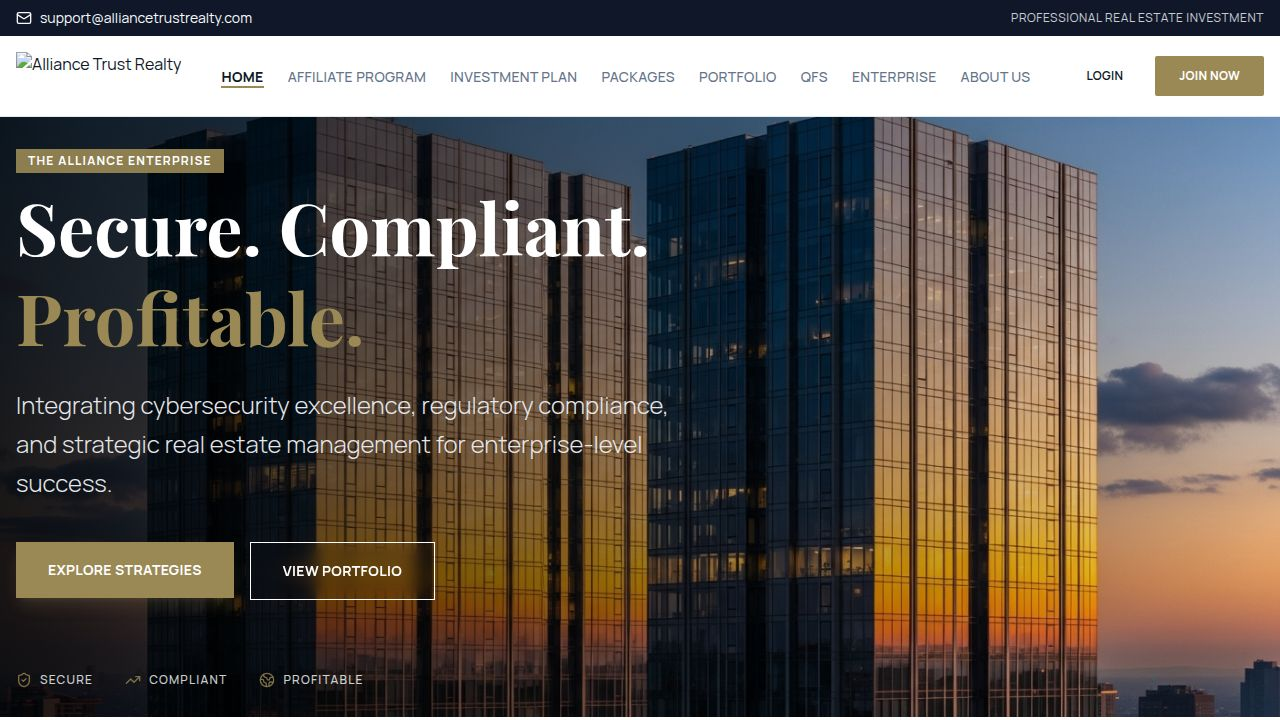
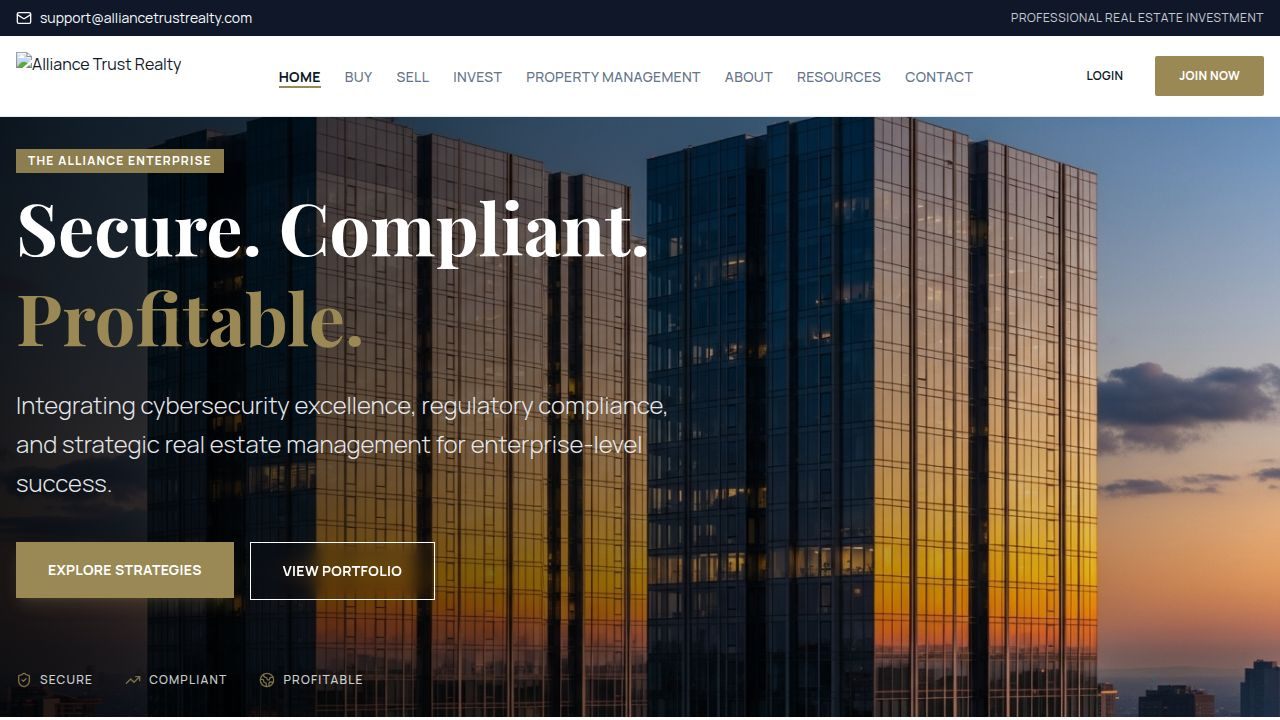
Add new sections for buying, selling, investing, and property management
Introduce new top-level routes and navigation items for Buy, Sell, Invest, and Property Management pages. Update Home page hero section.

Replit-Commit-Author: Agent
Replit-Commit-Session-Id: c5aa6118-9c6c-4483-9ddc-28a8247e483a
Replit-Commit-Checkpoint-Type: full_checkpoint
Replit-Commit-Event-Id: cbcf0f6b-43c0-4c21-aee7-9fab9d0a29b2
Replit-Commit-Screenshot-Url: https://storage.googleapis.com/screenshot-production-us-central1/432b56a7-6989-4eaa-8228-4d81d64ffe64/c5aa6118-9c6c-4483-9ddc-28a8247e483a/ANFQ0Y8
Replit-Helium-Checkpoint-Created: true

Changed region(s): [[0.1562, 0.0917, 0.8125, 0.1222]]

diff --git a/client/src/pages/Home.tsx b/client/src/pages/Home.tsx
@@ -3,7 +3,7 @@ import { Layout } from "@/components/layout/Layout";
 import { Button } from "@/components/ui/button";
 import { TradingViewCalendar } from "@/components/widgets/TradingViewCalendar";
 import { CryptoMarketTable } from "@/components/widgets/CryptoMarketTable";
-import { ArrowRight, BarChart3, ShieldCheck, TrendingUp, Users, Building2, Globe2, Play } from "lucide-react";
+import { Search, Home as HomeIcon, DollarSign, TrendingUp, Building2, ShieldCheck, Globe2, Play, ArrowRight, BarChart3 } from "lucide-react";
 import heroImage from "@assets/generated_images/modern_luxury_high-rise_building_at_dusk.png";
 import residentialImage from "@assets/generated_images/modern_luxury_apartment_complex.png";
 import commercialImage from "@assets/generated_images/modern_glass_office_building.png";
@@ -16,48 +16,86 @@ export default function Home() {
 
   return (
     <Layout>
-      {/* Hero Section - Enhanced with GemAlliance styling */}
-      <section className="relative h-[80vh] min-h-[600px] w-full overflow-hidden flex items-center">
-        <div 
-          className="absolute inset-0 bg-cover bg-center transition-transform duration-10000 hover:scale-105"
-          style={{ backgroundImage: `url(${heroImage})` }}
-        >
-          <div className="absolute inset-0 bg-gradient-to-r from-black/80 via-black/40 to-transparent" />
-        </div>
+        {/* Hero Section */}
+        <section className="relative h-[80vh] min-h-[600px] w-full overflow-hidden flex items-center">
+          <div 
+            className="absolute inset-0 bg-cover bg-center transition-transform duration-10000 hover:scale-105"
+            style={{ backgroundImage: `url(${heroImage})` }}
+          >
+            <div className="absolute inset-0 bg-gradient-to-r from-blue-900/60 to-slate-950/80 z-10" />
+          </div>
 
-        <div className="relative container mx-auto px-4 text-white z-10">
-          <div className="max-w-3xl space-y-6 animate-in slide-in-from-bottom-10 fade-in duration-1000">
-            <div className="inline-block px-3 py-1 bg-secondary/90 text-white text-xs font-bold uppercase tracking-widest rounded-sm mb-2">
-              The Alliance Enterprise
-            </div>
-            <h1 className="text-5xl md:text-7xl font-serif font-bold leading-tight">
-              Secure. Compliant. <br/>
-              <span className="text-secondary">Profitable.</span>
-            </h1>
-            <p className="text-xl md:text-2xl text-gray-200 font-light max-w-2xl leading-relaxed">
-              Integrating cybersecurity excellence, regulatory compliance, and strategic real estate management for enterprise-level success.
-            </p>
-            <div className="flex flex-col sm:flex-row gap-4 pt-4">
-              <Link href="/investment-plan">
-                <Button size="lg" className="bg-secondary hover:bg-secondary/90 text-white font-bold px-8 py-7 uppercase tracking-wide text-sm rounded-sm shadow-lg shadow-secondary/20">
-                  Explore Strategies
-                </Button>
-              </Link>
-              <Link href="/portfolio">
-                <Button size="lg" variant="outline" className="text-white border-white bg-transparent hover:bg-white hover:text-primary font-bold px-8 py-7 uppercase tracking-wide text-sm rounded-sm backdrop-blur-sm">
-                  View Portfolio
-                </Button>
-              </Link>
-            </div>
+          <div className="relative container mx-auto px-4 text-white z-20">
+            <div className="max-w-3xl space-y-8 animate-in slide-in-from-bottom-10 fade-in duration-1000">
+              <div className="inline-block px-4 py-1.5 bg-blue-600/20 border border-blue-500/30 text-blue-400 text-xs font-black uppercase tracking-[0.2em] rounded-full mb-4">
+                Full-Service Real Estate & Investment
+              </div>
+              <h1 className="text-5xl md:text-8xl font-black leading-tight tracking-tighter">
+                Trust. Scale. <br/>
+                <span className="text-blue-500 italic">Value.</span>
+              </h1>
+              <p className="text-xl md:text-2xl text-slate-300 font-light max-w-2xl leading-relaxed">
+                Whether you're buying your dream home or building a real estate portfolio, we provide data-driven guidance and end-to-end service.
+              </p>
+              
+              <div className="flex flex-col sm:flex-row gap-6 pt-6">
+                <Link href="/buy">
+                  <Button size="lg" className="bg-blue-600 hover:bg-blue-700 text-white font-black px-12 py-8 text-lg rounded-xl shadow-2xl shadow-blue-600/20 group">
+                    Find Your Home <ArrowRight className="ml-2 h-5 w-5 group-hover:translate-x-1 transition-transform" />
+                  </Button>
+                </Link>
+                <Link href="/invest">
+                  <Button size="lg" variant="outline" className="text-white border-white/20 hover:bg-white/10 font-black px-12 py-8 text-lg rounded-xl backdrop-blur-md">
+                    Explore Investments
+                  </Button>
+                </Link>
+              </div>
 
-            <div className="flex gap-8 pt-12 text-xs uppercase tracking-widest opacity-80 font-medium">
-              <span className="flex items-center gap-2"><ShieldCheck className="h-4 w-4 text-secondary" /> Secure</span>
-              <span className="flex items-center gap-2"><TrendingUp className="h-4 w-4 text-secondary" /> Compliant</span>
-              <span className="flex items-center gap-2"><Globe2 className="h-4 w-4 text-secondary" /> Profitable</span>
+              {/* Quick Search */}
+              <div className="max-w-xl mt-12 bg-white/5 backdrop-blur-xl border border-white/10 p-2 rounded-2xl flex items-center gap-2 shadow-2xl">
+                <div className="flex-1 flex items-center px-4 gap-3">
+                  <Search className="h-5 w-5 text-slate-400" />
+                  <input placeholder="Search city, neighborhood, or zip..." className="bg-transparent border-none text-white placeholder:text-slate-500 focus:outline-none w-full py-3" />
+                </div>
+                <Button className="bg-blue-600 hover:bg-blue-700 text-white font-bold h-12 px-6 rounded-xl">Search</Button>
+              </div>
             </div>
           </div>
-        </div>
-      </section>
+        </section>
+
+        {/* Services Grid Section */}
+        <section className="py-32 bg-slate-950 border-y border-white/5 relative overflow-hidden">
+          <div className="absolute top-0 left-1/2 -translate-x-1/2 w-full h-full bg-[radial-gradient(circle_at_center,rgba(59,130,246,0.05)_0%,transparent_70%)] pointer-events-none" />
+          <div className="container mx-auto px-4 relative z-10">
+            <div className="text-center mb-20 max-w-3xl mx-auto">
+              <span className="text-blue-500 font-bold tracking-widest uppercase text-sm mb-4 block">Our Expertise</span>
+              <h2 className="text-4xl md:text-6xl font-black text-white mb-6 tracking-tight">Full-Service Solutions</h2>
+              <p className="text-slate-400 text-lg font-light leading-relaxed">Data-driven approaches for every real estate objective, from individual home ownership to institutional portfolio scaling.</p>
+            </div>
+            
+            <div className="grid md:grid-cols-4 gap-8">
+              {[
+                { icon: HomeIcon, title: "Buy a Home", desc: "Find your perfect property with expert guidance", link: "/buy", color: "text-blue-500", bg: "bg-blue-500/10" },
+                { icon: DollarSign, title: "Sell Your Property", desc: "Maximize your return with our proven process", link: "/sell", color: "text-emerald-500", bg: "bg-emerald-500/10" },
+                { icon: TrendingUp, title: "Real Estate Investing", desc: "Build wealth through strategic property investments", link: "/invest", color: "text-amber-500", bg: "bg-amber-500/10" },
+                { icon: Building2, title: "Property Management", desc: "Hassle-free management for your rental properties", link: "/property-management", color: "text-purple-500", bg: "bg-purple-500/10" }
+              ].map((service, i) => (
+                <Link key={i} href={service.link}>
+                  <div className="p-10 rounded-3xl bg-slate-900/40 border border-white/5 hover:border-blue-500/30 hover:bg-slate-800/60 transition-all duration-500 group cursor-pointer h-full flex flex-col shadow-xl">
+                    <div className={`w-16 h-16 ${service.bg} ${service.color} rounded-2xl flex items-center justify-center mb-8 group-hover:scale-110 transition-transform duration-500`}>
+                      <service.icon size={32} />
+                    </div>
+                    <h3 className="text-2xl font-black text-white mb-4 tracking-tight">{service.title}</h3>
+                    <p className="text-slate-400 font-light leading-relaxed mb-8 flex-grow">{service.desc}</p>
+                    <span className={`text-sm font-bold uppercase tracking-widest ${service.color} group-hover:gap-4 transition-all flex items-center gap-2`}>
+                      Learn More <ArrowRight className="h-4 w-4" />
+                    </span>
+                  </div>
+                </Link>
+              ))}
+            </div>
+          </div>
+        </section>
 
       {/* Evolution Story / Intro Video Section */}
       <section className="py-24 bg-gradient-to-b from-white to-gray-50">

diff --git a/client/src/pages/Invest.tsx b/client/src/pages/Invest.tsx
@@ -1,0 +1,70 @@
+import { Layout } from "@/components/layout/Layout";
+import { PageHeader } from "@/components/beginner/page-header";
+import { ContentSection } from "@/components/beginner/content-section";
+import { Button } from "@/components/ui/button";
+import { Input } from "@/components/ui/input";
+import { Card, CardContent } from "@/components/ui/card";
+import { TrendingUp, BarChart3, Calculator, ShieldCheck } from "lucide-react";
+
+export default function InvestPage() {
+  return (
+    <Layout>
+      <PageHeader 
+        title="Institutional-Grade Real Estate Investing"
+        subtitle="Build wealth through strategic property investments with data-driven analysis and proven ROI models."
+        primaryCtaText="Schedule Consultation"
+        primaryCtaLink="#"
+      />
+
+      <ContentSection title="Investment Tools">
+        <div className="grid md:grid-cols-2 gap-8">
+          <Card className="bg-slate-900 border-white/5 p-8">
+            <CardContent className="p-0 space-y-6">
+              <div className="flex items-center gap-4">
+                <div className="w-12 h-12 bg-blue-600/10 rounded-xl flex items-center justify-center text-blue-500">
+                  <Calculator size={24} />
+                </div>
+                <h3 className="text-2xl font-black text-white">ROI Calculator</h3>
+              </div>
+              <div className="grid gap-4">
+                <div className="space-y-2">
+                  <label className="text-sm text-slate-400">Purchase Price</label>
+                  <Input type="number" placeholder="$500,000" className="bg-slate-950 border-white/10" />
+                </div>
+                <div className="grid grid-cols-2 gap-4">
+                  <div className="space-y-2">
+                    <label className="text-sm text-slate-400">Down Payment (%)</label>
+                    <Input type="number" placeholder="20" className="bg-slate-950 border-white/10" />
+                  </div>
+                  <div className="space-y-2">
+                    <label className="text-sm text-slate-400">Interest Rate (%)</label>
+                    <Input type="number" placeholder="6.5" className="bg-slate-950 border-white/10" />
+                  </div>
+                </div>
+                <Button className="w-full bg-blue-600 font-bold">Calculate Returns</Button>
+              </div>
+            </CardContent>
+          </Card>
+
+          <div className="grid gap-6">
+            {[
+              { icon: TrendingUp, title: "Market Analysis", desc: "Access current market trends and neighborhood data." },
+              { icon: BarChart3, title: "Portfolio Tracking", desc: "Monitor your investment performance in real-time." },
+              { icon: ShieldCheck, title: "1031 Exchange", desc: "Expert coordination for tax-deferred exchanges." }
+            ].map((tool, i) => (
+              <div key={i} className="flex items-center gap-6 p-6 bg-slate-900 rounded-2xl border border-white/5 hover:border-blue-500/30 transition-all">
+                <div className="w-12 h-12 bg-blue-600/10 rounded-xl flex items-center justify-center text-blue-500 shrink-0">
+                  <tool.icon size={24} />
+                </div>
+                <div>
+                  <h4 className="text-lg font-bold text-white">{tool.title}</h4>
+                  <p className="text-slate-400 text-sm">{tool.desc}</p>
+                </div>
+              </div>
+            ))}
+          </div>
+        </div>
+      </ContentSection>
+    </Layout>
+  );
+}

diff --git a/client/src/pages/property-management/index.tsx b/client/src/pages/property-management/index.tsx
@@ -1,0 +1,31 @@
+import { Layout } from "@/components/layout/Layout";
+import { PageHeader } from "@/components/beginner/page-header";
+import { ContentSection } from "@/components/beginner/content-section";
+
+export default function PropertyManagementPage() {
+  return (
+    <Layout>
+      <PageHeader 
+        title="Professional Property Management"
+        subtitle="Hassle-free management for your rental properties. We handle the tenants, maintenance, and compliance."
+        primaryCtaText="Request Management Quote"
+        primaryCtaLink="#"
+      />
+      <ContentSection title="Full-Service Management">
+        <div className="grid md:grid-cols-2 lg:grid-cols-4 gap-8">
+          {[
+            { title: "Tenant Screening", desc: "Rigorous background and credit checks." },
+            { title: "Maintenance", desc: "24/7 coordination of all property repairs." },
+            { title: "Financial Reporting", desc: "Clear monthly statements and tax documentation." },
+            { title: "Compliance", desc: "Ensuring all local and federal regulations are met." }
+          ].map((item, i) => (
+            <div key={i} className="p-8 bg-slate-900 rounded-3xl border border-white/5 hover:border-blue-500/30 transition-all">
+              <h3 className="text-xl font-black text-white mb-4">{item.title}</h3>
+              <p className="text-slate-400 font-light">{item.desc}</p>
+            </div>
+          ))}
+        </div>
+      </ContentSection>
+    </Layout>
+  );
+}

diff --git a/client/src/pages/sell/index.tsx b/client/src/pages/sell/index.tsx
@@ -1,0 +1,26 @@
+import { Layout } from "@/components/layout/Layout";
+import { PageHeader } from "@/components/beginner/page-header";
+import { ContentSection } from "@/components/beginner/content-section";
+
+export default function SellPage() {
+  return (
+    <Layout>
+      <PageHeader 
+        title="Sell Your Property for Top Dollar"
+        subtitle="Get a free home valuation and learn about our proven selling process."
+        primaryCtaText="Get Free Valuation"
+        primaryCtaLink="#"
+      />
+      <ContentSection title="Our Selling Process">
+        <div className="grid md:grid-cols-3 gap-8 text-white">
+          {["Professional Staging", "Strategic Marketing", "Expert Negotiation"].map((service, i) => (
+            <div key={i} className="p-8 bg-slate-900 rounded-2xl border border-white/5">
+              <h3 className="text-2xl font-bold mb-4">{service}</h3>
+              <p className="text-slate-400">Maximize your property's value with our specialized {service.toLowerCase()} services.</p>
+            </div>
+          ))}
+        </div>
+      </ContentSection>
+    </Layout>
+  );
+}

diff --git a/client/src/pages/buy/index.tsx b/client/src/pages/buy/index.tsx
@@ -1,0 +1,26 @@
+import { Layout } from "@/components/layout/Layout";
+import { PageHeader } from "@/components/beginner/page-header";
+import { ContentSection } from "@/components/beginner/content-section";
+
+export default function BuyPage() {
+  return (
+    <Layout>
+      <PageHeader 
+        title="Find Your Dream Home"
+        subtitle="Search thousands of listings with advanced filters and expert guidance."
+        primaryCtaText="Search Listings"
+        primaryCtaLink="#"
+      />
+      <ContentSection title="Buying Process Timeline">
+        <div className="grid md:grid-cols-4 gap-8">
+          {["Pre-Approval", "Property Search", "Offer & Negotiation", "Closing"].map((step, i) => (
+            <div key={i} className="text-center p-6 bg-slate-900 rounded-xl border border-white/5">
+              <div className="text-4xl font-black text-blue-500 mb-4">{i + 1}</div>
+              <h3 className="text-xl font-bold text-white">{step}</h3>
+            </div>
+          ))}
+        </div>
+      </ContentSection>
+    </Layout>
+  );
+}

diff --git a/client/src/App.tsx b/client/src/App.tsx
@@ -19,11 +19,19 @@ import SetupWizard from "@/pages/SetupWizard";
 import AdminDiagnostics from "@/pages/AdminDiagnostics";
 import BeginnerHub from "@/pages/beginners/hub";
 import StrategyFramework from "@/pages/beginners/strategy";
+import BuyPage from "@/pages/buy";
+import SellPage from "@/pages/sell";
+import PropertyManagementPage from "@/pages/property-management";
+import InvestPage from "@/pages/Invest";
 
 function Router() {
   return (
     <Switch>
       <Route path="/" component={Home} />
+      <Route path="/buy" component={BuyPage} />
+      <Route path="/sell" component={SellPage} />
+      <Route path="/invest" component={InvestPage} />
+      <Route path="/property-management" component={PropertyManagementPage} />
       <Route path="/affiliate" component={Affiliate} />
       <Route path="/investment-plan" component={InvestmentPlan} />
       <Route path="/packages" component={Packages} />

diff --git a/client/src/lib/constants.ts b/client/src/lib/constants.ts
@@ -1,13 +1,12 @@
 export const NAV_ITEMS = [
   { label: "Home", href: "/" },
-  { label: "Affiliate program", href: "/affiliate" },
-  { label: "Investment plan", href: "/investment-plan" },
-  { label: "Packages", href: "/packages" },
-  { label: "Portfolio", href: "/portfolio" },
-  { label: "QFS", href: "/qfs" },
-  { label: "Enterprise", href: "/enterprise" },
-  { label: "For Beginners", href: "/for-beginners" },
-  { label: "About Us", href: "/about" },
+  { label: "Buy", href: "/buy" },
+  { label: "Sell", href: "/sell" },
+  { label: "Invest", href: "/invest" },
+  { label: "Property Management", href: "/property-management" },
+  { label: "About", href: "/about" },
+  { label: "Resources", href: "/resources" },
+  { label: "Contact", href: "/contact" },
 ];
 
 export const CONTACT_INFO = {
